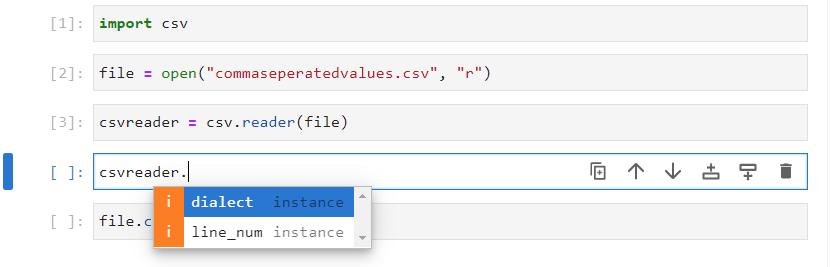
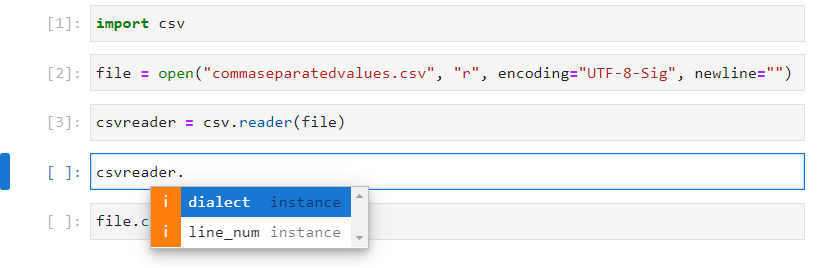
Add files via upload

diff --git a/014_csv_pickle_json/readme.md b/014_csv_pickle_json/readme.md
@@ -87,11 +87,11 @@ The ```reader``` functions docstring can be viewed by typing in the function nam
 
 ![img_012](./images/img_012.png)
 
-The function takes in an iterable as an input argument which is usually an opened file. Recall a file can be opened and closed using:
+The function takes in an iterable as an input argument which is usually an opened file. Recall a file can be opened and closed using the inbuilt function ```open``` where the 2nd input argument in ```open``` is ```"r"``` indicating read only access. To encode a file properly, the follwoign keyword arguments must be assigned to the following values ```encoding="UTF-8-Sig"``` and ```newline=""```.
 
 ```
 import csv
-file = open("commaseperatedvalues.csv", "r")
+file = open("commaseparatedvalues.csv", "r", encoding="UTF-8-Sig", newline="")
 file.close()
 ```
 
@@ -101,8 +101,8 @@ The csv reader function should be used on the file after it is opened and before
 
 ```
 import csv
-file = open("commaseperatedvalues.csv", "r")
-csvreader = csv.reader(file)
+file = open("commaseparatedvalues.csv", "r", encoding="UTF-8-Sig", newline="")
+csvreader = csv.reader(file, delimiter=",")
 file.close()
 ```
 
@@ -143,7 +143,7 @@ csvreader.line_num
 
 ![img_018](./images/img_018.png)
 
-Each line is a single tab delimited string and that string is enclosed in an otherwise empty list.
+Notice that each line read is a list of strings.
 
 Recall that the class ```list``` can be used on an iterator to see all the available items left:
 
@@ -151,13 +151,11 @@ Recall that the class ```list``` can be used on an iterator to see all the avail
 
 This gives a list of lists.
 
-Notice in the above ```\t``` a tab delimiter displays inplace of the ```,``` comma  delimiter. This is to prevent confusion between the delimiter in a Python list and a delimiter in the csv file.
-
-As ```csvreader``` is an iterator, it can also be used with a for loop:
+As ```csvreader``` is an iterator, it can also be consumed by a for loop:
 
 ```
 import csv
-file = open("commaseperatedvalues.csv", "r")
+file = open("commaseparatedvalues.csv", "r", encoding="UTF-8-Sig", newline="")
 csvreader = csv.reader(file)
 for row in csvreader:
     print(row)
@@ -168,10 +166,10 @@ file.close()
 ![img_020](./images/img_020.png)
 
 
-Recall that it is more common to open a file within a ```with``` code block. This code block will automatically close the file, although the close command is shwon below for clarity:
+Recall that it is more common to open a file within a ```with``` code block. This code block will automatically close the file, although the close command is shown below for clarity:
 
 ```
-with open("commaseperatedvalues.csv", "r") as file:
+with open("commaseparatedvalues.csv", "r", encoding="UTF-8-Sig", newline="") as file:
     csvreader = csv.reader(file)
     for row in csvreader:
         print(row)
@@ -184,11 +182,10 @@ with open("commaseperatedvalues.csv", "r") as file:
 
 Instead of printing, the file contents can be saved to a list.
 
-
 ```
 file_contents = []
 
-with open("commaseperatedvalues.csv", "r") as file:
+with open("commaseparatedvalues.csv", "r", encoding="UTF-8-Sig", newline="") as file:
     csvreader = csv.reader(file)
     for row in csvreader:
         file_contents.append(row)
@@ -199,16 +196,93 @@ with open("commaseperatedvalues.csv", "r") as file:
 
 ![img_022](./images/img_022.png)
 
-```
-file_contents = []
+The workflow used for the csv writer function is quite similar to that of the csv reader function. 
 
-with open("commaseperatedvalues.csv", "r") as file:
-    csvreader = csv.reader(file)
-    for row in csvreader:
-        file_contents.append(row[0])
+![img_024](./images/img_024.png)
+
+The function also takes in an iterable as an input argument which is usually an opened file. Once again a file can be opened and closed using the inbuilt function ```open``` where in this case the 2nd input argument in ```open``` is ```"w"``` indicating write access:
+
+```
+import csv
+file = open("newfile.csv", "w", encoding="UTF-8-Sig", newline="")
+csvwriter = csv.writer(file)
+file.close()
+```
+
+![img_025](./images/img_025.png)
+
+The csvwriter instance has two methods ```writerow``` and ```writerows```:
+
+![img_026](./images/img_026.png)
+
+```writerow``` can be used to write an individual row. For example a file can be created one row at a time:
+
+```
+import csv
+file = open("newfile.csv", "w", encoding="UTF-8-Sig", newline="")
+csvwriter = csv.writer(file)
+csvwriter.writerow(["x", "y", "z"])
+csvwriter.writerow([1, 2, 3])
+csvwriter.writerow([2, 4, 6])
+csvwriter.writerow([3, 6, 9])
+file.close()
+```
+
+![img_029](./images/img_029.png)
+
+This file is now viewable in Windows File Explorer:
+
+![img_030](./images/img_030.png)
+
+And can be opened in Notepad++:
+
+![img_031](./images/img_031.png)
+
+Once again that it is more common to open a file within a ```with``` code block. This code block will automatically close the file, although the close command is shown below for clarity: 
+
+```
+import csv
+
+with open("newfile.csv", "w", encoding="UTF-8-Sig", newline="") as file:
+    csvwriter = csv.writer(file)
+    csvwriter.writerow(["x2", "y2", "z2"])
+    csvwriter.writerow([1, 2, 3])
+    csvwriter.writerow([2, 4, 6])
+    csvwriter.writerow([3, 6, 9])
     file.close()
 
 
-```
+```    
 
-![img_023](./images/img_023.png)
+![img_032](./images/img_032.png)
+
+Notice that the previous file that was created has now been overridden with the new data (there is a subtle difference in the headings ```x2, y2 and z2``` are used opposed to ```x, y and z``` in the original file):
+
+![img_033](./images/img_033.png)
+
+Use of ```writerows``` requires the data to be in the form of a list of lists. Once again, the same data is going to be written to a file, this time slightly different headings ```x3, y3, z3``` are going to be used and a new file name ```"newfile2.csv"``` will be used:
+
+```
+import csv
+
+data = [["x3", "y3", "z3"],
+        [1, 2, 3],
+        [4, 5, 6],
+        [7, 8, 9]]
+
+with open("newfile2.csv", "w", encoding="UTF-8-Sig", newline="") as file:
+    csvwriter = csv.writer(file)
+    csvwriter.writerows(data)
+    file.close()
+    
+
+```        
+
+![img_034](./images/img_034.png)
+
+This new file can be opened and looks as expected:
+
+![img_035](./images/img_035.png)
+
+## Pickled Data
+
